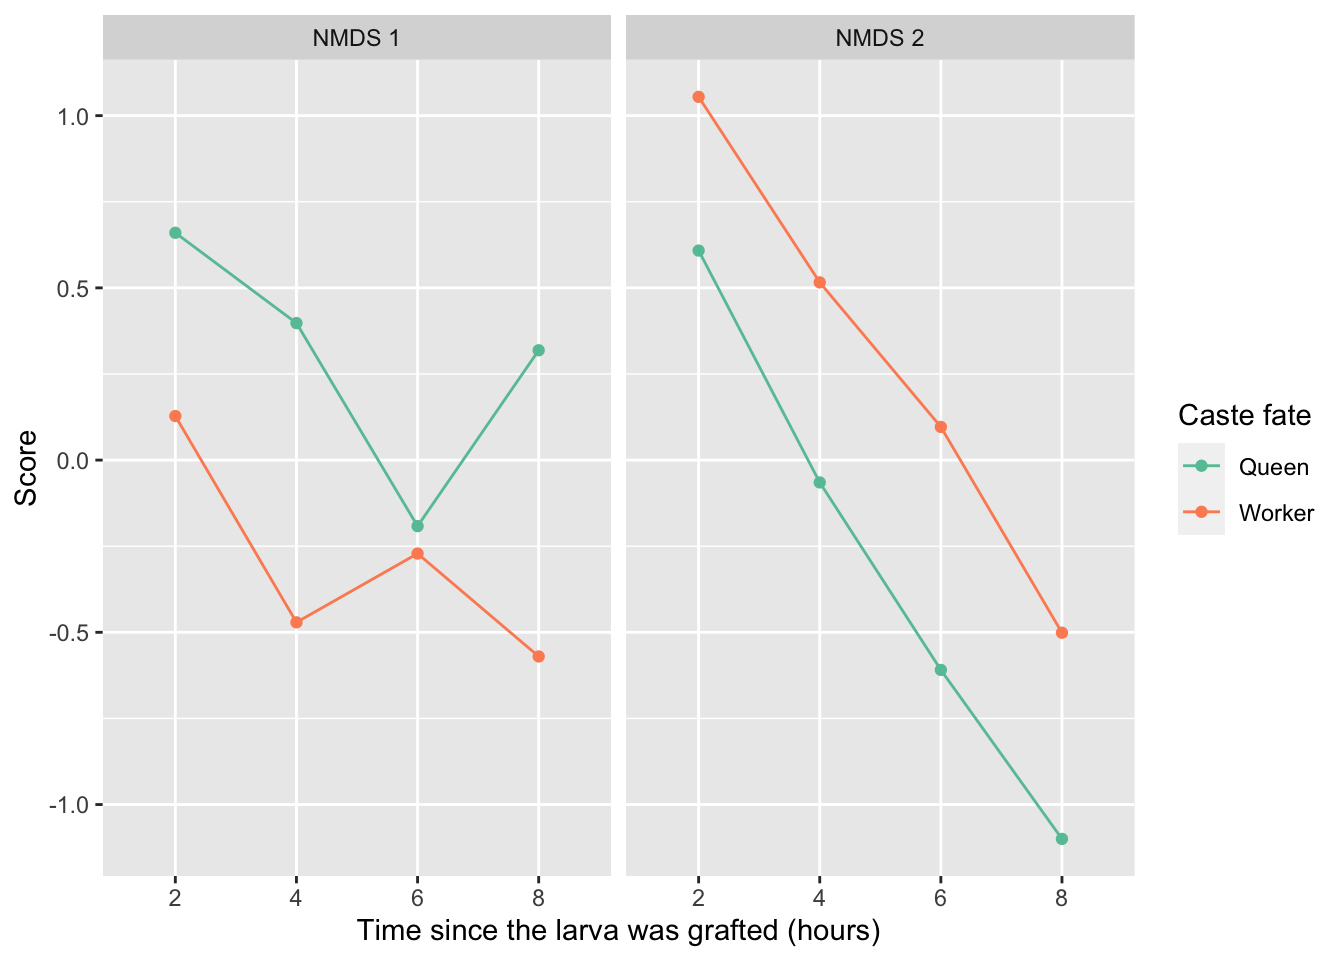
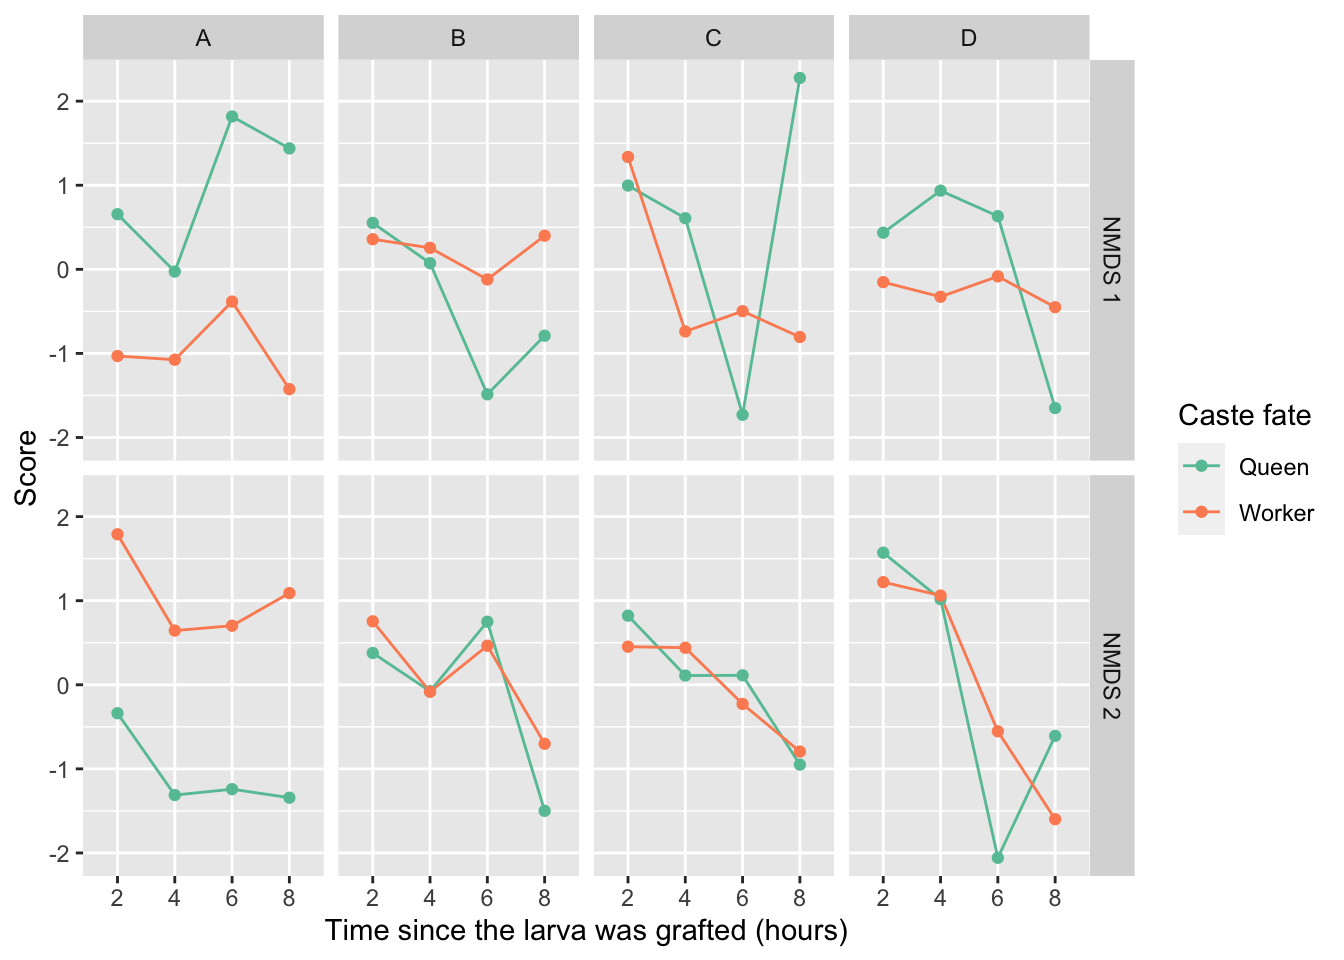
Build site.

diff --git a/docs/diff_expression.html b/docs/diff_expression.html
@@ -504,10 +504,10 @@ This reproducible <a href="http://rmarkdown.rstudio.com">R Markdown</a> analysis
 <div class="panel panel-default">
 <div class="panel-heading">
 <p class="panel-title">
-<a data-toggle="collapse" data-parent="#workflowr-checks" href="#strongRepositoryversionstrongahrefhttpsgithubcomlukeholmanMethylationApistree1494ba869ecc5b0578d30d479b789af23cc21c4etargetblank1494ba8a"> <span class="glyphicon glyphicon-ok text-success" aria-hidden="true"></span> <strong>Repository version:</strong> <a href="https://github.com/lukeholman/Methylation_Apis/tree/1494ba869ecc5b0578d30d479b789af23cc21c4e" target="_blank">1494ba8</a> </a>
+<a data-toggle="collapse" data-parent="#workflowr-checks" href="#strongRepositoryversionstrongahrefhttpsgithubcomlukeholmanMethylationApistree3c628cf5a1ba5a8cb0408ce250af7c5c5f688317targetblank3c628cfa"> <span class="glyphicon glyphicon-ok text-success" aria-hidden="true"></span> <strong>Repository version:</strong> <a href="https://github.com/lukeholman/Methylation_Apis/tree/3c628cf5a1ba5a8cb0408ce250af7c5c5f688317" target="_blank">3c628cf</a> </a>
 </p>
 </div>
[2 lines of base64/hex data omitted]
 <div class="panel-body">
 <p>
 Great! You are using Git for version control. Tracking code development and connecting the code version to the results is critical for reproducibility. The version displayed above was the version of the Git repository at the time these results were generated. <br><br> Note that you need to be careful to ensure that all relevant files for the analysis have been committed to Git prior to generating the results (you can use <code>wflow_publish</code> or <code>wflow_git_commit</code>). workflowr only checks the R Markdown file, but you know if there are other scripts or data files that it depends on. Below is the status of the Git repository when the results were generated:
@@ -557,6 +557,40 @@ Message
 </tr>
 </thead>
 <tbody>
+<tr>
+<td>
+Rmd
+</td>
+<td>
+<a href="https://github.com/lukeholman/Methylation_Apis/blob/3c628cf5a1ba5a8cb0408ce250af7c5c5f688317/analysis/diff_expression.Rmd" target="_blank">3c628cf</a>
+</td>
+<td>
+lukeholman
+</td>
+<td>
+2020-03-12
+</td>
+<td>
+Republish
+</td>
+</tr>
+<tr>
+<td>
+html
+</td>
+<td>
+<a href="https://rawcdn.githack.com/lukeholman/Methylation_Apis/1a0fd3ecebcdbce853e51769246ff85c548e6a9d/docs/diff_expression.html" target="_blank">1a0fd3e</a>
+</td>
+<td>
+lukeholman
+</td>
+<td>
+2020-03-12
+</td>
+<td>
+Build site.
+</td>
+</tr>
 <tr>
 <td>
 Rmd
@@ -797,13 +831,13 @@ nmds_output %&gt;%
   mutate_at(vars(starts_with(&quot;X&quot;)), ~ as.numeric(scale(.x))) %&gt;%
   gather(NMDS, Score, starts_with(&quot;X&quot;)) %&gt;%
   mutate(NMDS = gsub(&quot;X&quot;, &quot;NMDS &quot;, NMDS)) %&gt;%
-  group_by(NMDS, Caste, Time) %&gt;%
+  group_by(NMDS, Caste, Time, Replicate) %&gt;%
   summarise(Score = mean(Score)) %&gt;%
   ggplot(aes(Time, Score, colour = Caste, group = Caste)) + 
   geom_line() +
   geom_point() + 
   scale_colour_brewer(palette = &quot;Set2&quot;, name = &quot;Caste fate&quot;) + 
-  facet_wrap(~NMDS) + 
+  facet_grid(NMDS~Replicate) + 
   xlab(&quot;Time since the larva was grafted (hours)&quot;)</code></pre>
 <p><img src="figure/diff_expression.Rmd/nmds2-1.png" width="672" style="display: block; margin: auto;" /></p>
 <p>
